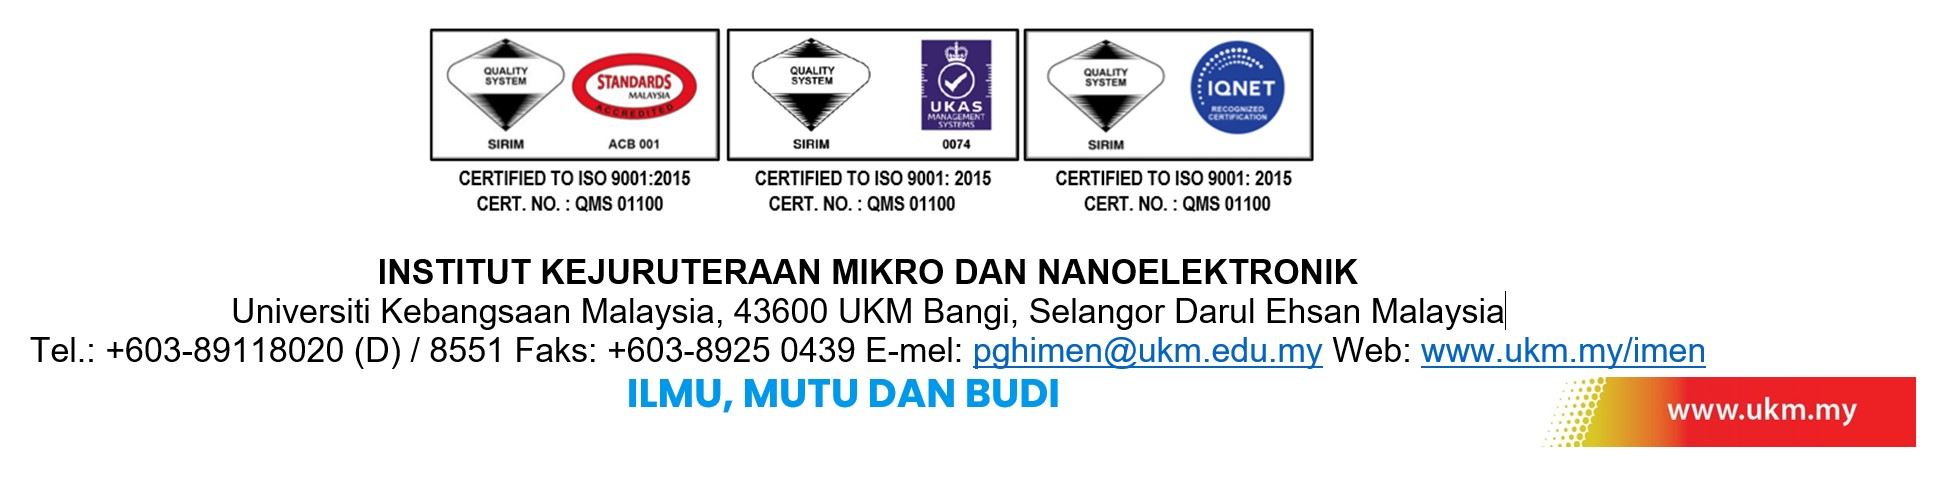
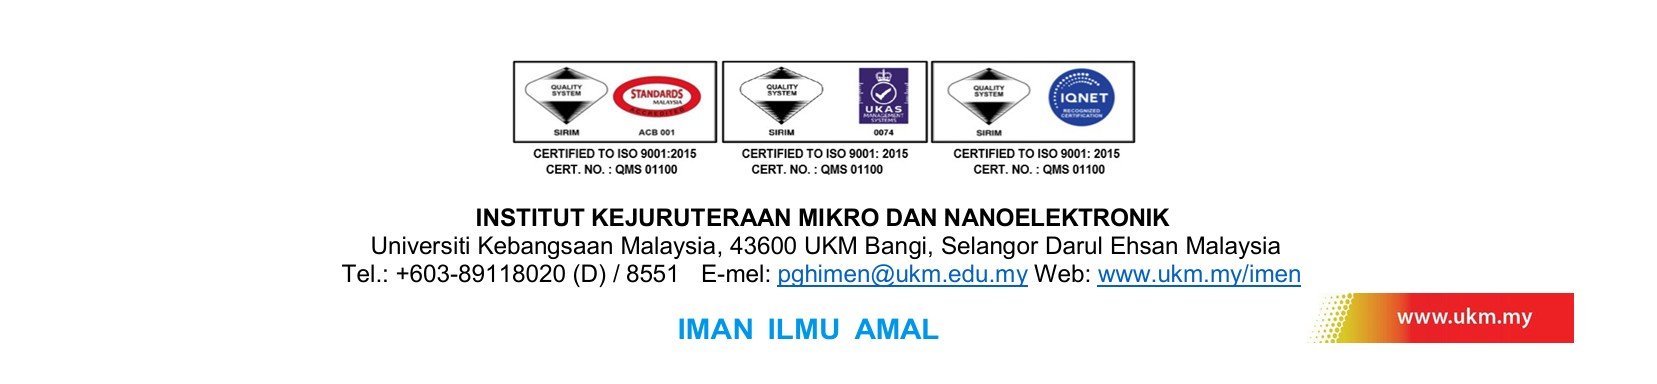
i-print: Sebut Harga images 30% bigger + updated footer graphic
- Header/footer now width:78% (up from 60%, ~30% bigger), aspect kept
- Template already references assets/footer.jpg, so the new letterhead
  graphic is picked up automatically (committed the updated asset)
- Verified: footer flush at page bottom, no overflow, 1 A4 page

Changed region(s): [[0.0, 0.5312, 0.9849, 0.9375], [0.2154, 0.0312, 0.7079, 0.4688]]

diff --git a/i-print/sebut_harga.html b/i-print/sebut_harga.html
@@ -37,7 +37,7 @@
 
         /* Header & footer images pinned to top/bottom edges, natural aspect kept */
         .sh-header { flex: 0 0 auto; line-height: 0; }
-        .sh-header img, .sh-footer img { display: block; width: 60%; height: auto; margin: 0 auto; }
+        .sh-header img, .sh-footer img { display: block; width: 78%; height: auto; margin: 0 auto; }
         .sh-footer { flex: 0 0 auto; margin-top: auto; line-height: 0; }
 
         /* Print Specific Styles */
